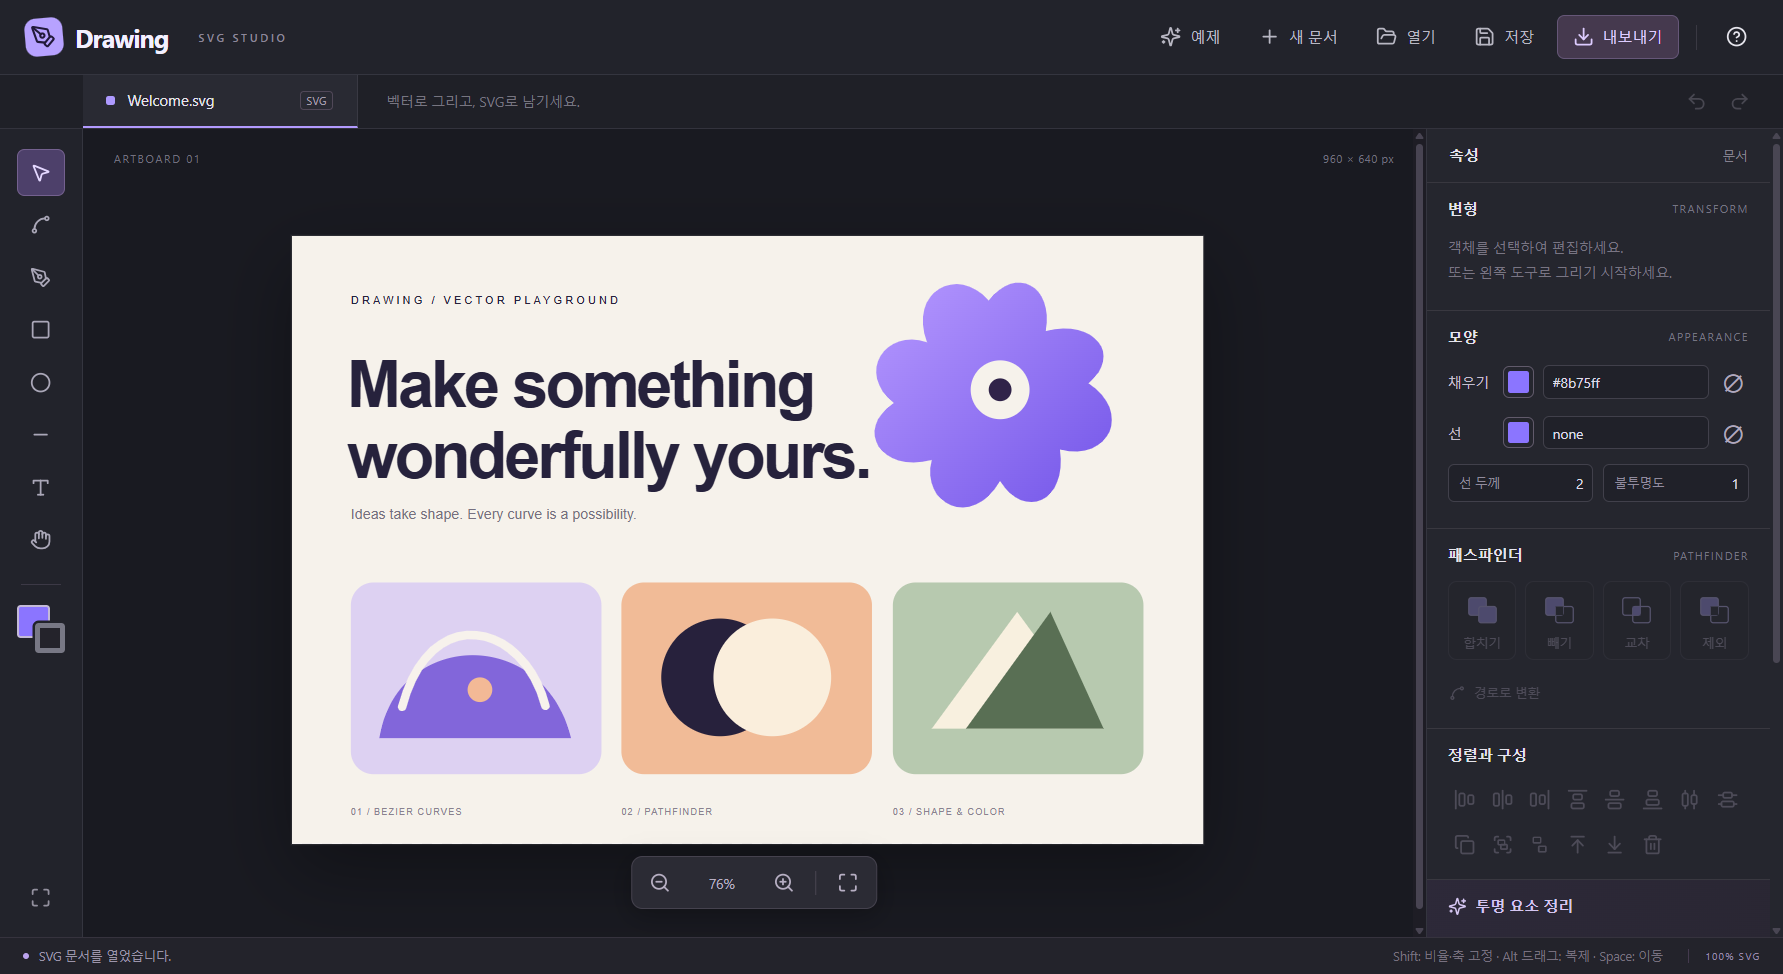
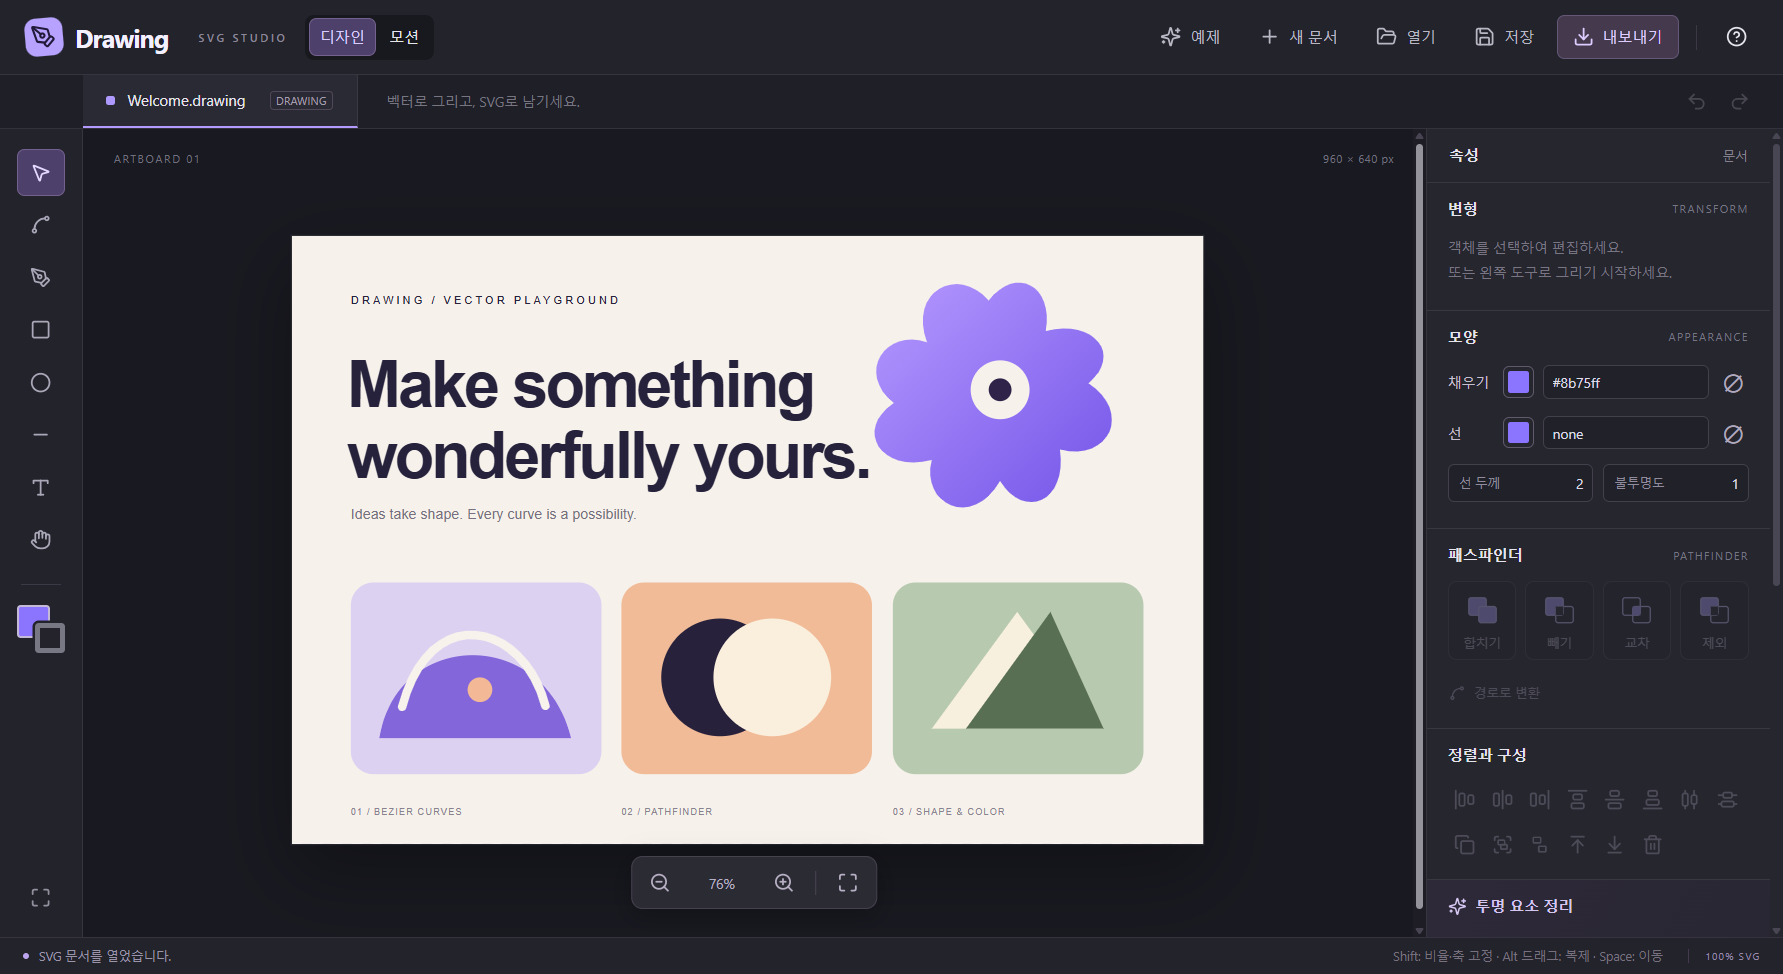
release: verify and package Drawing 1.1 studio for Windows

diff --git a/README.md b/README.md
@@ -9,19 +9,24 @@ Drawing은 SVG 문서를 직접 편집하는 데스크톱 벡터 편집기입니
 
 ## 실행
 
-[Releases](https://github.com/hslcrb/Drawing/releases)에서 `Drawing-1.0.2-win-x64.exe`를
-다운로드하고 실행하세요. 최신 검증 버전은 **1.0.2**입니다. 설치와 Java 런타임 없이 실행하는 Windows x64 포터블 앱입니다.
+[Releases](https://github.com/hslcrb/Drawing/releases)에서 `Drawing-1.1.0-win-x64.exe`를
+다운로드하고 실행하세요. 최신 검증 버전은 **1.1.0**입니다. 설치와 Java 런타임 없이 실행하는 Windows x64 포터블 앱입니다.
 현재 배포 파일은 코드 서명이 없는 자체 빌드입니다.
 
 실행하면 **“Make something wonderfully yours.”** 예제 문서가 열립니다.
-상단 **예제** 버튼으로 언제든 원본을 다시 열어 곡선·텍스트·그룹·그라디언트를 체험하세요.
+상단 **예제** 갤러리에서 소개·그라데이션·스트로크·타이포그래피·모션, 다섯 원본 예제를 골라 여세요.
 예제는 앱에 포함되어 별도 파일이 필요 없습니다. **새 문서**는 빈 아트보드를 만듭니다.
 수정한 문서를 떠날 때는 저장 여부를 확인하며, 예제를 저장하면 새 파일로 저장합니다.
 원본 SVG는 [samples/welcome.svg](samples/welcome.svg)에서도 확인할 수 있습니다.
 
 ## 주요 기능
 
-- **SVG 문서:** 로컬 열기, 저장, 다른 이름으로 저장, SVG 내보내기, 문서 크기 설정.
+- **프로젝트:** 공개 JSON `.drawing` 형식. 내부 SVG, 이미지·폰트, 작업 화면과 타임라인을 함께 저장합니다. 기존 SVG 열기와 정적·애니메이션 SVG 내보내기도 지원합니다.
+- **화면 복원:** 줌·스크롤·선택·레이어 펼침·도구·기본 색·속성 패널·디자인/모션 모드·재생 위치.
+- **리소스:** PNG·JPEG·WebP·GIF 이미지 포함. TTF·OTF 전체 글꼴 또는 사용 글리프를 HarfBuzz로 부분 포함.
+- **그라데이션:** 채우기와 스트로크의 선형·방사형·자유형 점/선 색상 필드. 색상 스톱·알파·좌표·반경 및 캔버스 핸들 편집.
+- **스트로크:** 두께·끝 모양·모서리·대시 배열·오프셋·마이터 한계·확대 시 두께 유지.
+- **모션:** 객체별 위치·회전·크기·불투명도 키프레임, 선형·부드러운 보간·유지, 재생·반복·FPS·탐색. 디자인 원본을 보존합니다.
 - **그리기:** 사각형, 타원, 선, 텍스트, 직선 및 베지어 곡선 펜.
 - **노드:** 앵커·핸들 이동, 경로 더블클릭으로 점 추가, 선택 노드 삭제, 경로 열기·닫기.
 - **선택:** 클릭·Shift 클릭·영역 선택, 이동·크기·회전 핸들, 수치 편집, Alt 드래그 복제.
@@ -50,8 +55,25 @@ Drawing은 SVG 문서를 직접 편집하는 데스크톱 벡터 편집기입니
 색상과 선은 아래 객체에서 가져옵니다. 빈 교차 결과는 선택 객체를 제거하는 정상 결과입니다.
 
 텍스트·이미지, 열린 경로 및 필터·클리핑·마스크 효과의 패스파인더는 지원하지 않습니다.
-이 경우 문서를 유지하고 오류를 표시합니다. Drawing 1.0은 여기 나열한 SVG 편집 기능을
+이 경우 문서를 유지하고 오류를 표시합니다. Drawing 1.1은 여기 나열한 SVG 편집 기능을
 제공하며 Illustrator의 모든 전문 기능(텍스트 윤곽선화, CMYK, 라이브 효과 등)을 구현한 제품은 아닙니다.
+
+## 프로젝트·모션 사용
+
+기본 **저장**은 `.drawing` 프로젝트를 저장합니다. 디자인 모드의 **내보내기**는
+정적 SVG, 모션 모드의 **내보내기**는 브라우저에서 재생되는 애니메이션 SVG입니다.
+프로젝트에는 편집 가능한 키프레임도 남습니다.
+
+모션 모드에서 레이어를 선택하고 시간 0에 **키 저장**을 누릅니다. 다른 시간으로
+이동해 X/Y·회전·크기·불투명도를 바꾸고 다시 **키 저장**을 누르세요. 다이아몬드를
+클릭해 키로 이동하고 값을 덮어쓰거나 삭제할 수 있습니다.
+
+폰트 부분 포함은 현재 문서의 문자와 추가 포함 문자를 대상으로 합니다. 저장 파일에는
+원본 전체 글꼴을 숨겨 넣지 않습니다. 재열기 후 새 문자가 필요하면 해당 글꼴을 다시
+포함하거나 전체 포함을 선택하세요. 자유형 그라데이션은 SVG 방사형 색상 필드 합성
+방식이며 Illustrator의 전용 메쉬와 동일한 표현은 아닙니다.
+
+[공개 포맷 설명](docs/project-format.md) · [JSON Schema](docs/drawing.schema.json) · [모션 화면](docs/motion.png) · [예제 갤러리](docs/examples.png)
 
 ## 단축키
 
@@ -102,6 +124,10 @@ npm run format           # 소스 포맷
 
 - `src/core/editor.ts`: SVG 원본, 명령 기록, 선택·변형, ID 참조, 기하, 투명 요소 검사.
 - `src/core/tools.ts`: 포인터 제스처, 펜·앵커·핸들 편집, 선택 오버레이.
+- `src/core/project.ts`: 공개 프로젝트 타입과 로드 검증.
+- `src/core/paints.ts`, `assets.ts`, `fonts.ts`: 편집 가능한 색상 필드와 내장 리소스.
+- `src/core/motion.ts`, `Timeline.tsx`: 보간·키프레임·SVG 미리보기와 애니메이션 내보내기.
+- `src/examples.ts`, `samples/`: 다섯 편집 가능한 예제.
 - `src/main.tsx`: 도구·속성·레이어·파일 UI와 키보드 동작.
 - `electron/`: 제한된 preload 브리지, 파일 I/O, 네이티브 대화상자와 클립보드.
 - `tests/`: 문서·기하·브라우저 상호작용·데스크톱 파일 검증.

diff --git a/docs/verification.md b/docs/verification.md
@@ -1,11 +1,11 @@
-# Drawing 1.0.2 verification
+# Drawing 1.1.0 verification
 
 Date: 2026-10-04 (Asia/Seoul). Platform: Windows x64.
 
 ## Automated checks
 
-`npm run build` and `npx playwright test` completed successfully: TypeScript check, Vite production build and
-**22 Playwright tests passed**. Tests use real Chromium and Electron.
+`npm test` completed successfully: TypeScript check, Vite production build and
+**31 Playwright tests passed**. Tests use real Chromium and Electron.
 
 | Requirement | Evidence |
 | --- | --- |
@@ -18,31 +18,38 @@ Date: 2026-10-04 (Asia/Seoul). Platform: Windows x64.
 | Layer editing | Actual Electron in-app rename dialog; sample group selected through layer panel |
 | Desktop files | Real IPC, file writes, file reopen, new-document save-path reset; only path selection in native dialog is controlled |
 | Bundled welcome example | Startup artwork, restore original after edits, cancel unsaved discard, blank new documents and example save-path reset |
+| Open project format | SVG/resources/workspace/extensions roundtrip, invalid version atomic rejection, real Electron project save/reopen |
+| Rich appearance | Four editable gradient types, stop selection, canvas-handle dragging and undo, stroke cap/dash attributes |
+| Embedded images/fonts | Real PNG file input and saved manifest; full vs HarfBuzz subset TTF size, CSS font registration and load after project reopening |
+| Keyframe motion | Native exported SVG animation at expected position, nested transforms, easing/step interpolation, tracks/undo, UI scrub/play/export and untouched source |
+| Example library | All five documents opened; bundled motion example scrubs and plays |
 | Windows EXE | electron-builder portable x64 build; actual packaged application and portable wrapper launched and edited |
 
 ## Packaged application checks
 
 `node scripts/verify-package.mjs` passed on `release/win-unpacked/Drawing.exe`:
 window display, sample SVG import, layer rename, native clipboard, undo, shape
-editing, actual SVG saving, node insertion/deletion and path closure. No renderer errors were recorded. The rendered
+editing, actual Drawing project saving, node insertion/deletion and path closure, plus actual packaged HarfBuzz WASM font
+subsetting and project saving. No renderer errors were recorded. The rendered
 sample is captured in `docs/preview.png`.
 
 `node scripts/verify-portable.mjs` passed on the actual distribution file
-`release/Drawing-1.0.2-win-x64.exe`: bundled startup artwork, blank new document, rectangle drawing, Alt-drag
-duplication, undo and reopening the bundled original. Product metadata reports **Drawing 1.0.2**.
+`release/Drawing-1.1.0-win-x64.exe`: bundled startup artwork, blank new document, rectangle drawing, Alt-drag
+duplication, undo, example gallery, motion scrub and playback. Product metadata reports **Drawing 1.1.0**.
 
-Distribution bytes: **142773746**.
+Distribution bytes: **143091846**.
 
 SHA-256:
 
 ```text
[2 lines of base64/hex data omitted]
 ```
 
 ## External check limitation
 
 GitHub Actions did not start a runner. GitHub reports:
 “The job was not started because your account is locked due to a billing issue.”
+This was the external account state observed during earlier 1.0 verification.
 This is distinct from the passing local checks. The workflow remains available
 for use when the account restriction is resolved.
 

diff --git a/docs/release-notes.md b/docs/release-notes.md
@@ -1,22 +1,20 @@
-# Drawing 1.0.2
+# Drawing 1.1.0
 
-실행하면 “Make something wonderfully yours.” 예제 문서가 바로 열립니다.
-상단 **예제** 버튼으로 언제든 원본 예제를 다시 열 수 있습니다. 예제 SVG는 앱에
-포함되어 별도 파일이 필요 없으며, **새 문서**는 계속 빈 아트보드를 만듭니다.
-수정 중인 문서는 저장 여부를 확인하고, 예제 저장은 이전 파일을 덮어쓰지 않도록
-새 저장 위치를 선택합니다.
+SVG 기반 디자인·모션 스튜디오로 확장했습니다. 기본 저장 형식은 공개 JSON
+`.drawing`이며, SVG와 내장 리소스·작업 화면·키프레임을 함께 기록합니다.
+기존 SVG 파일 열기와 SVG 내보내기도 유지합니다.
 
-- 펜·도형·텍스트와 앵커·곡선 핸들 편집
-- 합치기·빼기·교차·제외 패스파인더
-- 완전히 투명한 요소 선택·삭제와 안전한 리소스 보존
-- Alt 드래그 복제, 그룹·정렬·레이어, 클립보드와 실행 취소
-- 로컬 SVG 열기·저장·내보내기
+- 편집 가능한 내장 예제 5개와 예제 갤러리
+- 스트로크 두께·끝 모양·모서리·대시·마이터·확대 시 두께 유지
+- 선형·방사형·자유형 점/선 그라데이션, 스톱·알파·좌표와 캔버스 핸들
+- SVG 텍스트, PNG/JPEG/WebP/GIF 이미지 포함, TTF/OTF 글꼴 전체/사용 글리프 포함
+- 디자인·모션 모드, 이동·회전·크기·불투명도 키프레임과 재생·반복·보간
+- 정적 SVG 및 JavaScript가 필요 없는 애니메이션 SVG 내보내기
+- 공개 포맷 명세와 JSON Schema, 화면 복원, 리소스·모션 편집 실행 취소
 
-`Drawing-1.0.2-win-x64.exe`는 설치 없이 실행하는 포터블 앱입니다. Java 런타임은
-필요하지 않습니다. Windows 코드 서명은 적용하지 않았습니다.
+자유형은 SVG 색상 필드 합성 방식입니다. 부분 포함 글꼴에 새로운 문자가 필요하면
+폰트를 다시 포함하세요. 프로젝트로 저장하면 편집 가능한 모션을 보존합니다.
 
-로컬 Chromium·Electron 자동 테스트와 실제 포터블 EXE 실행 검증을 수행했습니다.
-GitHub Actions는 계정 결제 문제로 실행이 차단되어 있어 로컬 검증 결과를 제공합니다.
-
-세부 기능, 단축키와 지원 범위는 README를 참고하세요. `SHA256SUMS.txt`에서 다운로드한
-실행 파일의 해시를 확인할 수 있습니다.
+`Drawing-1.1.0-win-x64.exe`는 Windows x64 포터블 앱입니다. 설치와 Java 런타임이
+필요 없습니다. 로컬 Chromium·Electron 테스트와 실제 EXE 검증을 수행했습니다.
+실행 파일은 코드 서명되지 않았으며 SHA256SUMS.txt로 파일을 확인할 수 있습니다.
